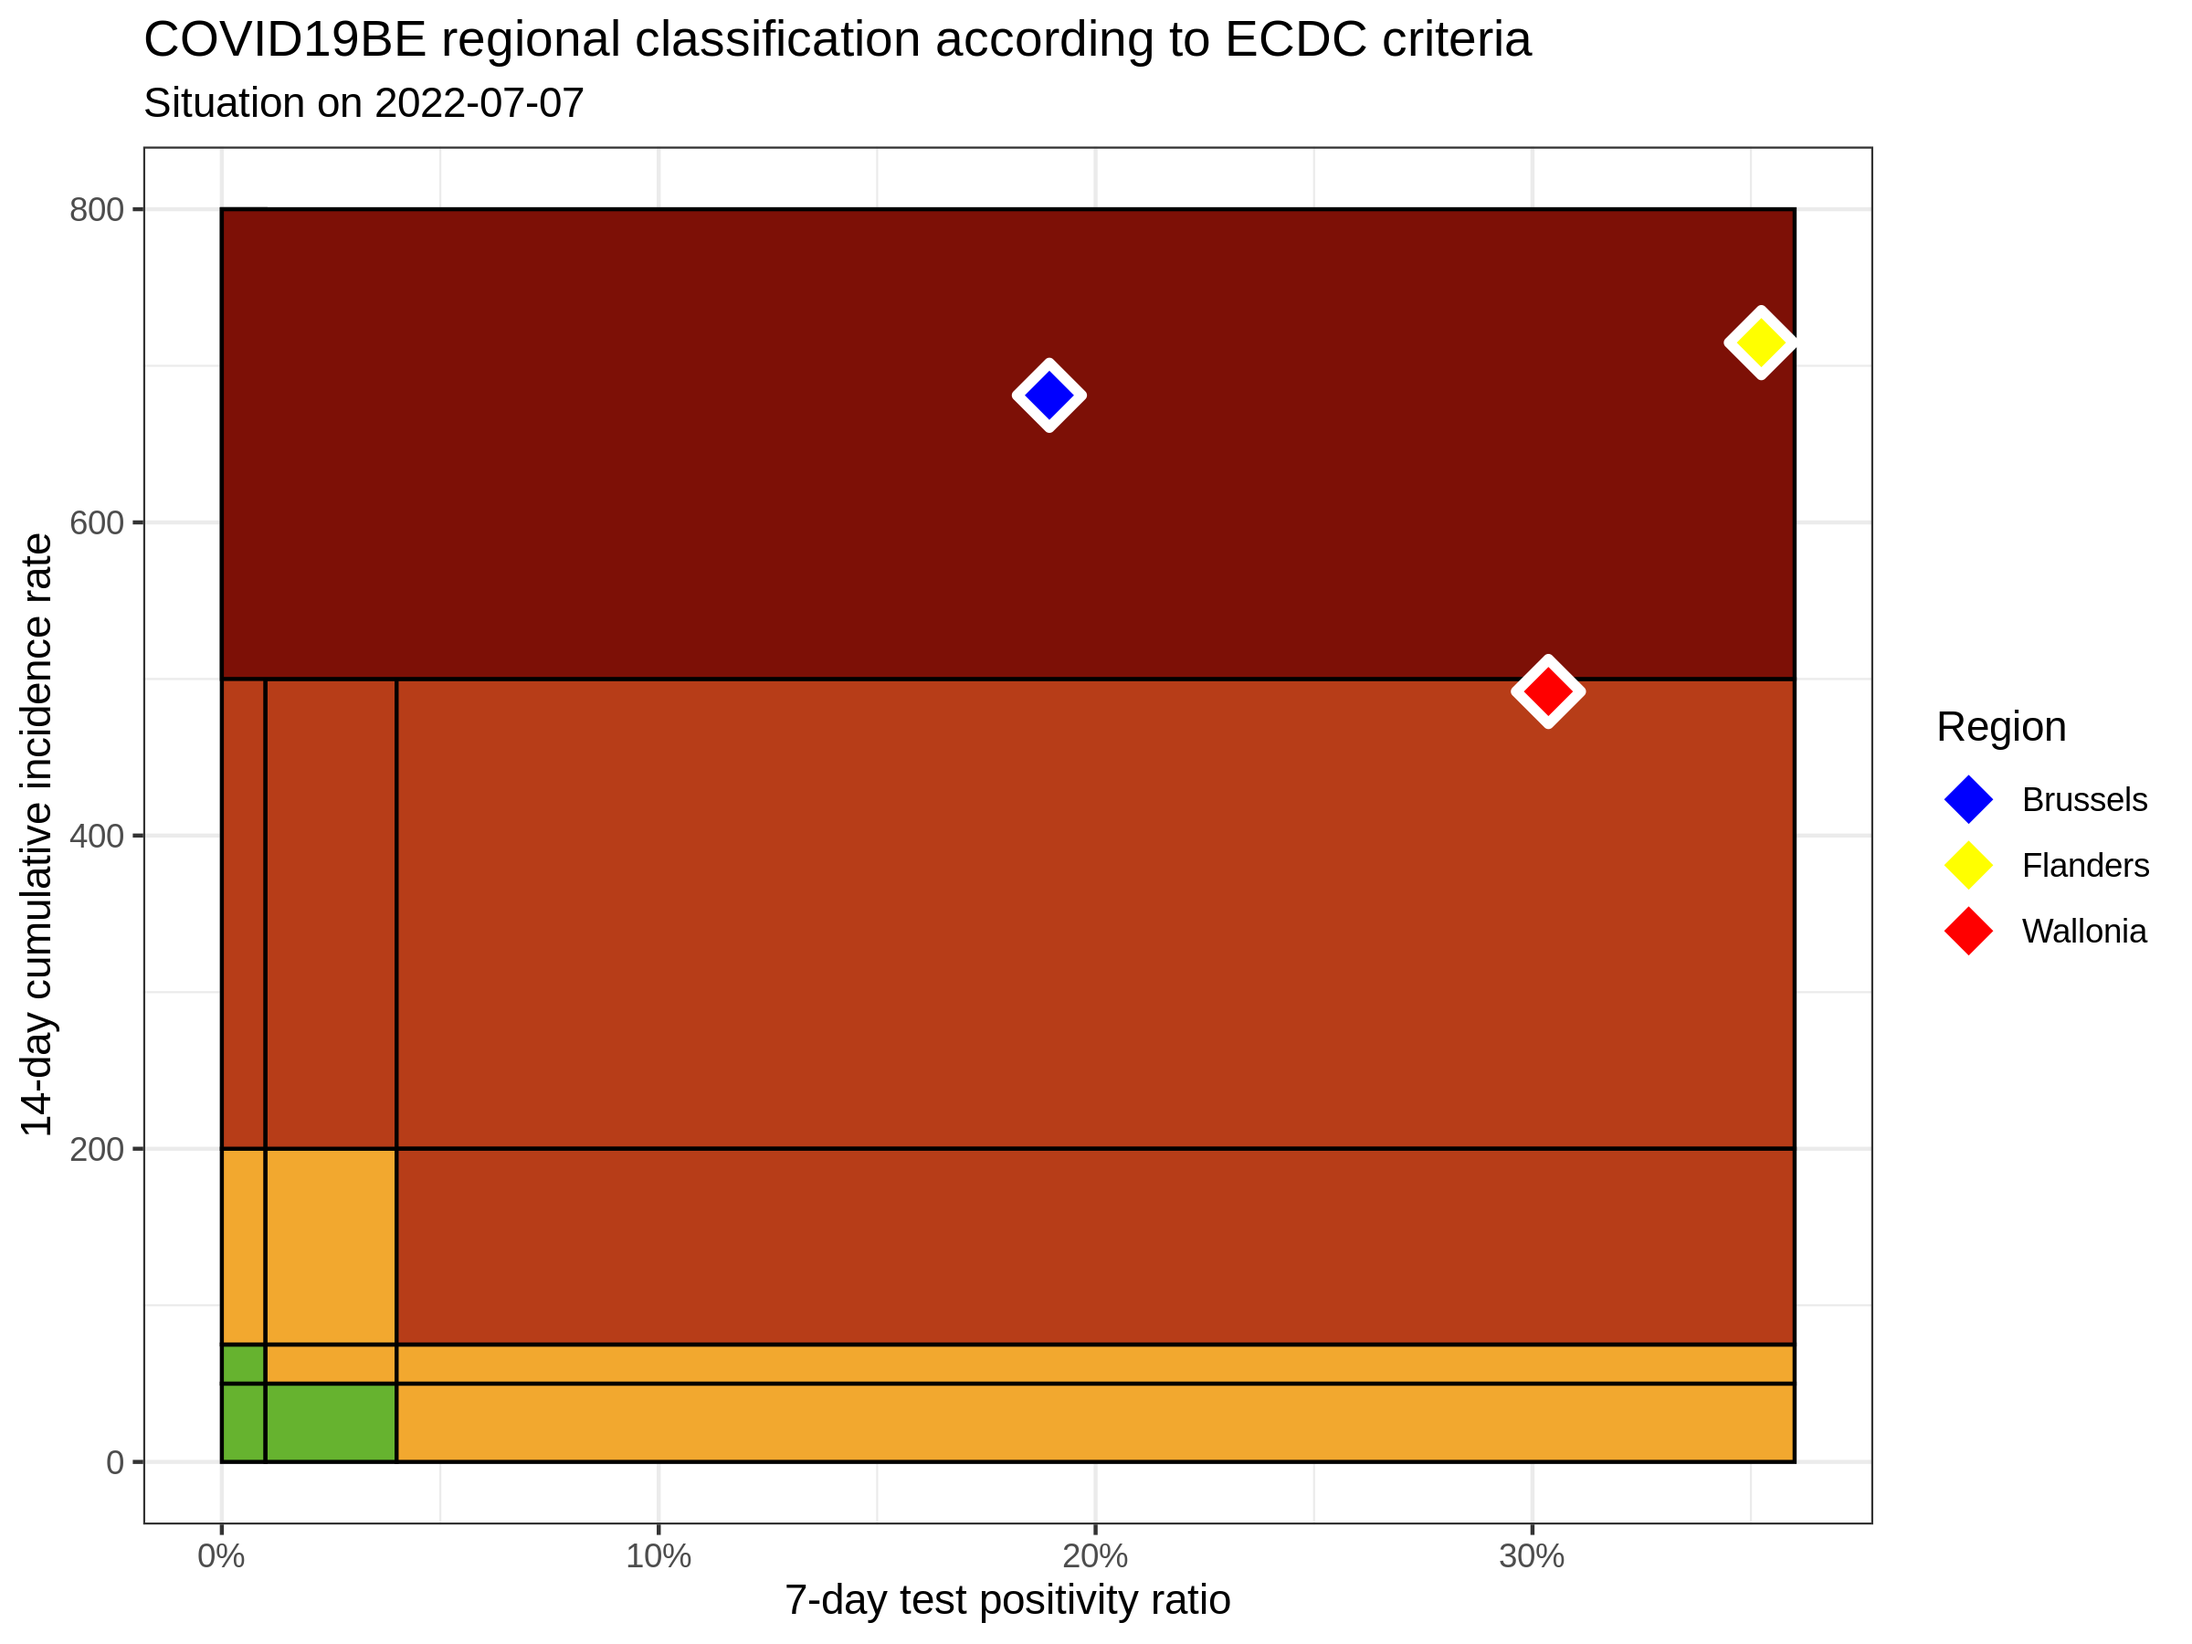
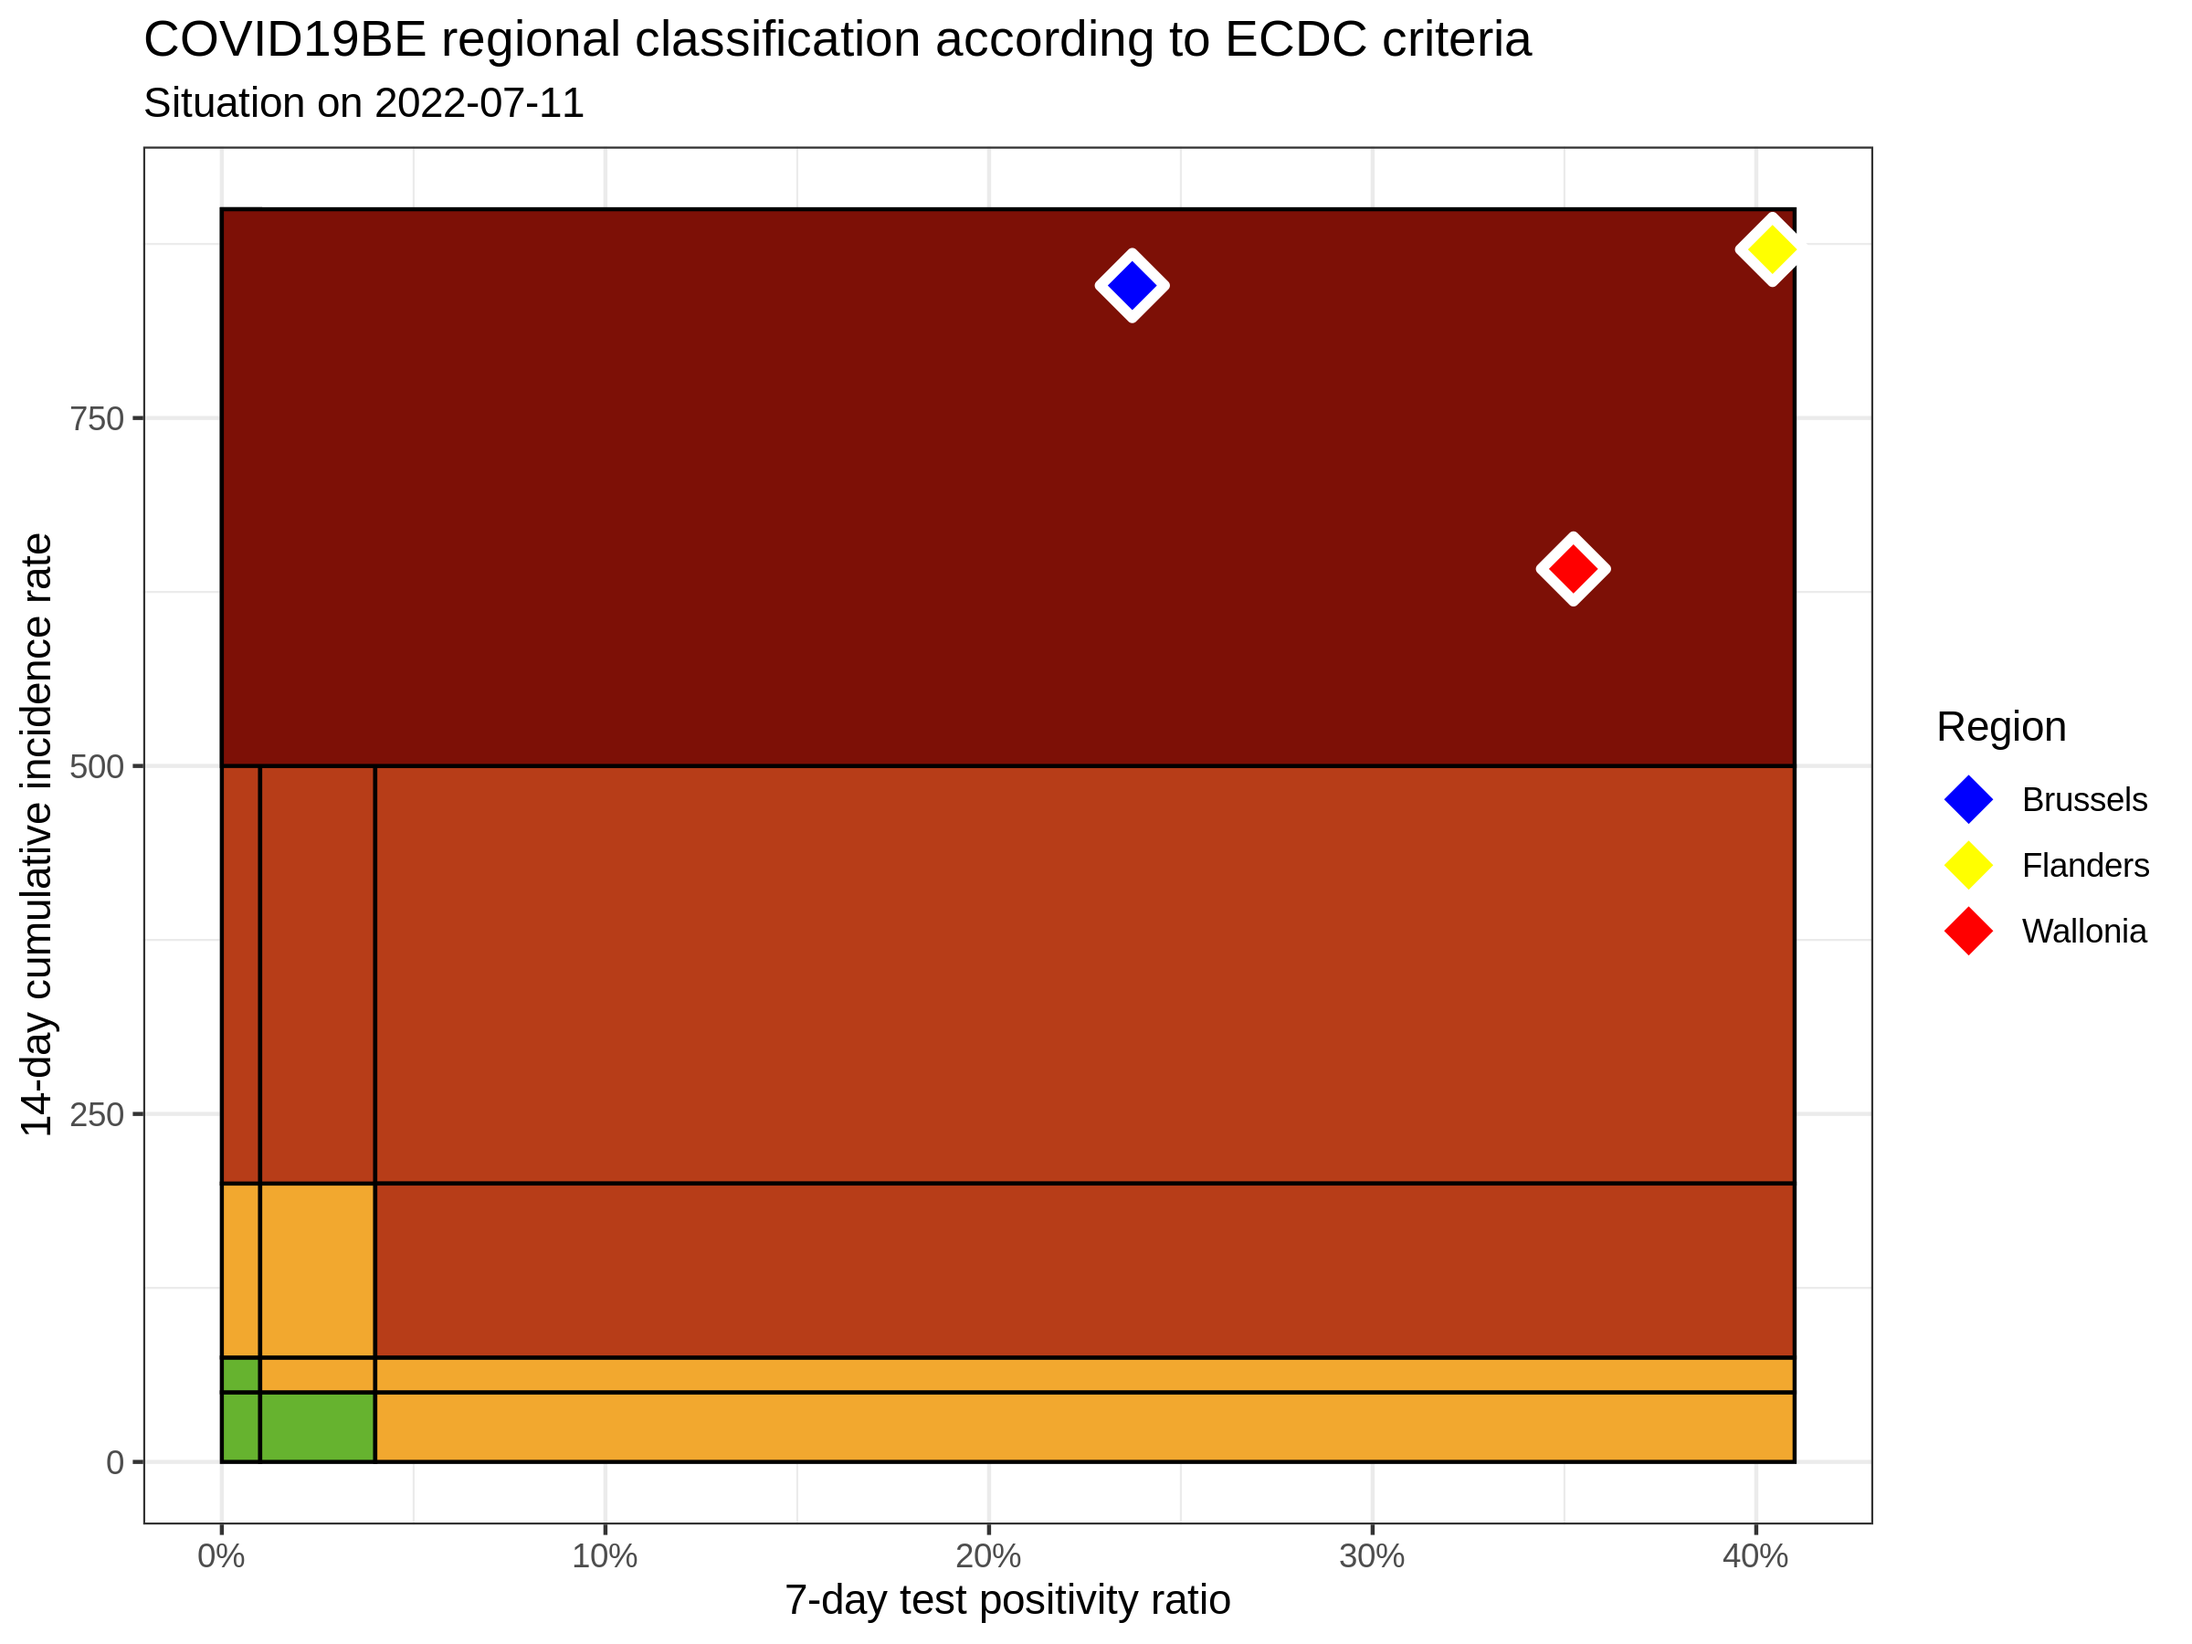
update situation

diff --git a/ecdc-trend/README.md b/ecdc-trend/README.md
@@ -11,9 +11,9 @@
 
 |          | INC14 |  INC7 |  TST7 | TST\_POS7 | REGION   |     POP | INC14\_RT |       PR7 |        GR |
 | :------- | ----: | ----: | ----: | --------: | :------- | ------: | --------: | --------: | --------: |
-| Brussels |  8310 |  4942 | 26523 |      5024 | Brussels | 1219970 |  681.1643 | 0.1894205 | 0.4673397 |
-| Flanders | 47556 | 27512 | 78513 |     27667 | Flanders | 6653062 |  714.7987 | 0.3523875 | 0.3725803 |
-| Wallonia | 17949 | 10975 | 37168 |     11286 | Wallonia | 3648206 |  491.9952 | 0.3036483 | 0.5737023 |
+| Brussels | 10311 |  5943 | 26417 |      6270 | Brussels | 1219970 |  845.1847 | 0.2373472 | 0.3605769 |
+| Flanders | 57954 | 33420 | 85710 |     34648 | Flanders | 6653062 |  871.0876 | 0.4042469 | 0.3621912 |
+| Wallonia | 23406 | 13892 | 40965 |     14434 | Wallonia | 3648206 |  641.5756 | 0.3523496 | 0.4601640 |
 
 ### Read more
 
